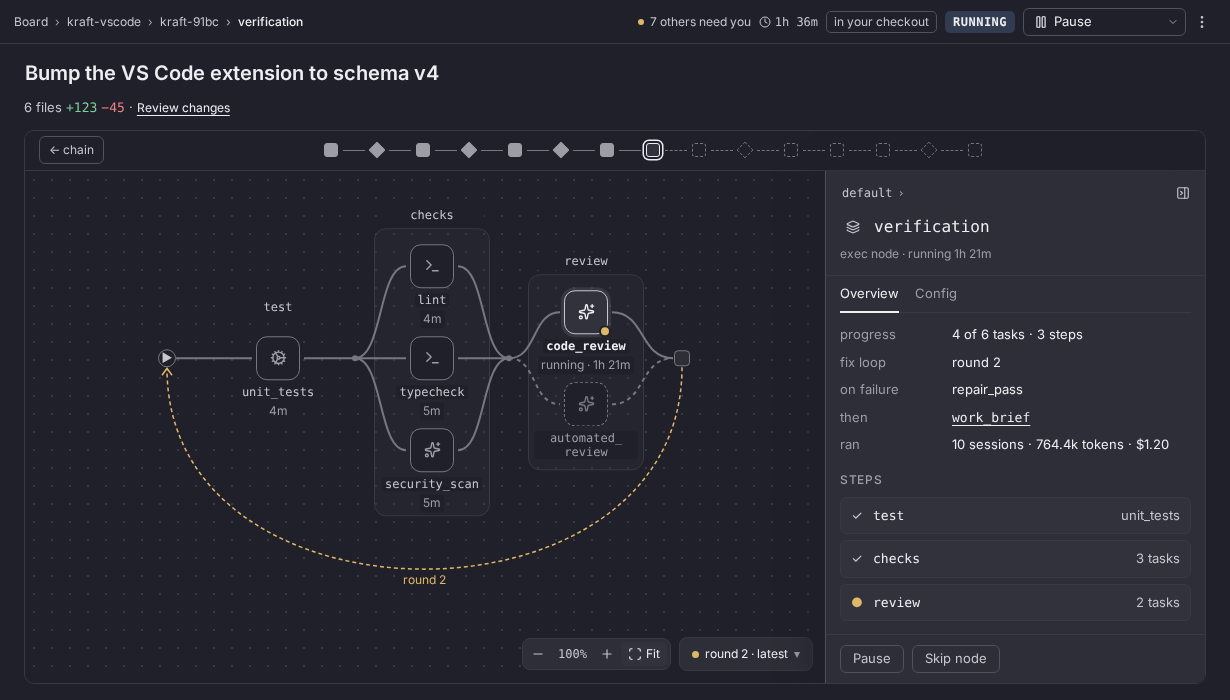
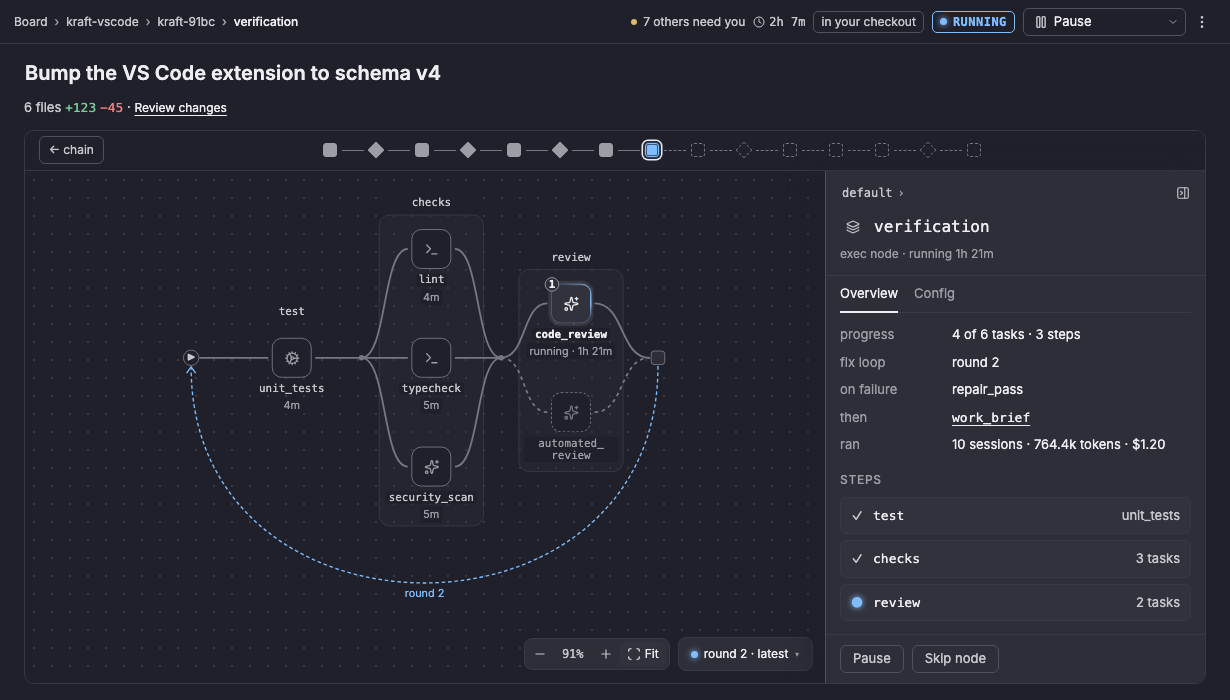
docs(screenshots): retake fixloop in the running look, and freeze running motion for retakes
The docs shots left endless animations running, so a running item would be
caught on a different frame each retake and rewrite its picture every time.
`freeze` pauses each one on a fixed frame (the light a third of the way round,
the sheen mid-tick, the dot full) before the capture. Of the 21 shots only
fixloop shows a running item; it is retaken.

diff --git a/frontend/e2e/docs-shots/shots.ts b/frontend/e2e/docs-shots/shots.ts
@@ -45,7 +45,7 @@ const still = (page: Page) =>
 test.beforeEach(async ({ page }) => still(page));
 
 /** Lets every animation that ends (a selection ring, a panel sliding in) end first, so two retakes of an
- *  unchanged screen match; endless ones (a running item's pulse) and paused ones are left as they are. */
+ *  unchanged screen match; endless ones (a running item's light) are frozen by `freeze`, paused ones left as they are. */
 const settle = (page: Page) =>
   page
     .waitForFunction(
@@ -62,6 +62,19 @@ const settle = (page: Page) =>
       console.warn(`docs-shots: ${page.url()} still animating after 5s; captured as it is`);
     });
 
+/** Stops every endless animation (a running node's light, a running tick's sheen, a breathing dot) on one fixed frame,
+ *  so a running item looks the same in every retake: the light a third of the way round, the sheen mid-tick, the dot full. */
+const FRAME: Record<string, number> = { "run-trace": 0.35, "run-sheen": 0.5 };
+const freeze = (page: Page) =>
+  page.evaluate((frame) => {
+    for (const a of document.getAnimations()) {
+      const t = a.effect?.getTiming();
+      if (t?.iterations !== Infinity) continue;
+      a.pause();
+      a.currentTime = (frame[(a as CSSAnimation).animationName] ?? 0) * Number(t.duration);
+    }
+  }, FRAME);
+
 const board = async (page: Page) => {
   await page.goto("./");
   await expect(page.getByRole("heading", { name: "Board", level: 1 })).toBeVisible();
@@ -73,6 +86,7 @@ const shootMain = async (page: Page, name: string, bottom?: number) => {
   await page.mouse.move(0, 0);
   await page.waitForLoadState("networkidle");
   await settle(page);
+  await freeze(page);
   const main = (await page.locator("#ng-main").boundingBox())!;
   const view = page.viewportSize()!;
   const height = Math.min(bottom ?? view.height, view.height);
@@ -85,6 +99,7 @@ test("stops: the board's Needs you group, one row per kind of stop", async ({ pa
   await expect(group.getByText("Running time hit its 8h cap")).toBeVisible();
   await page.mouse.move(0, 0);
   await settle(page);
+  await freeze(page);
   save("stops", await group.screenshot());
 });
 
@@ -127,6 +142,7 @@ const shoot = async (page: Page, name: string) => {
   await page.mouse.move(0, 0);
   await page.waitForLoadState("networkidle");
   await settle(page);
+  await freeze(page);
   save(name, await page.screenshot()); // the viewport, not the full page
 };
 
